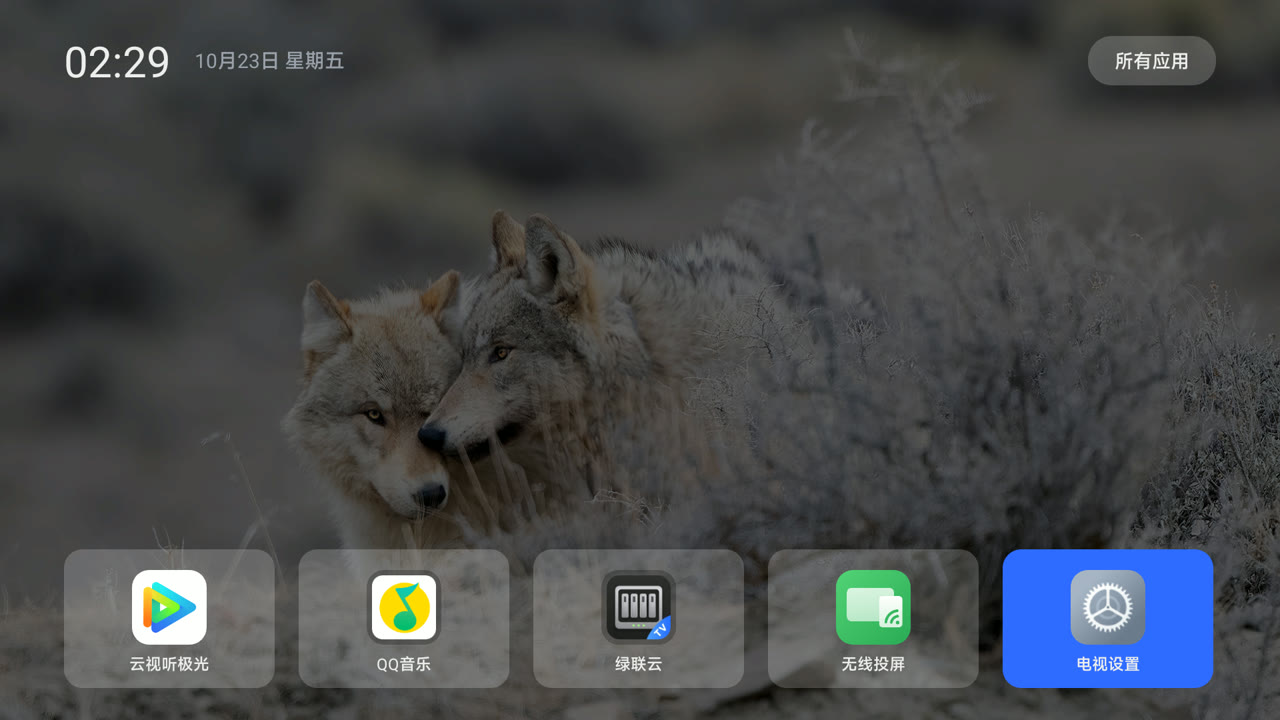
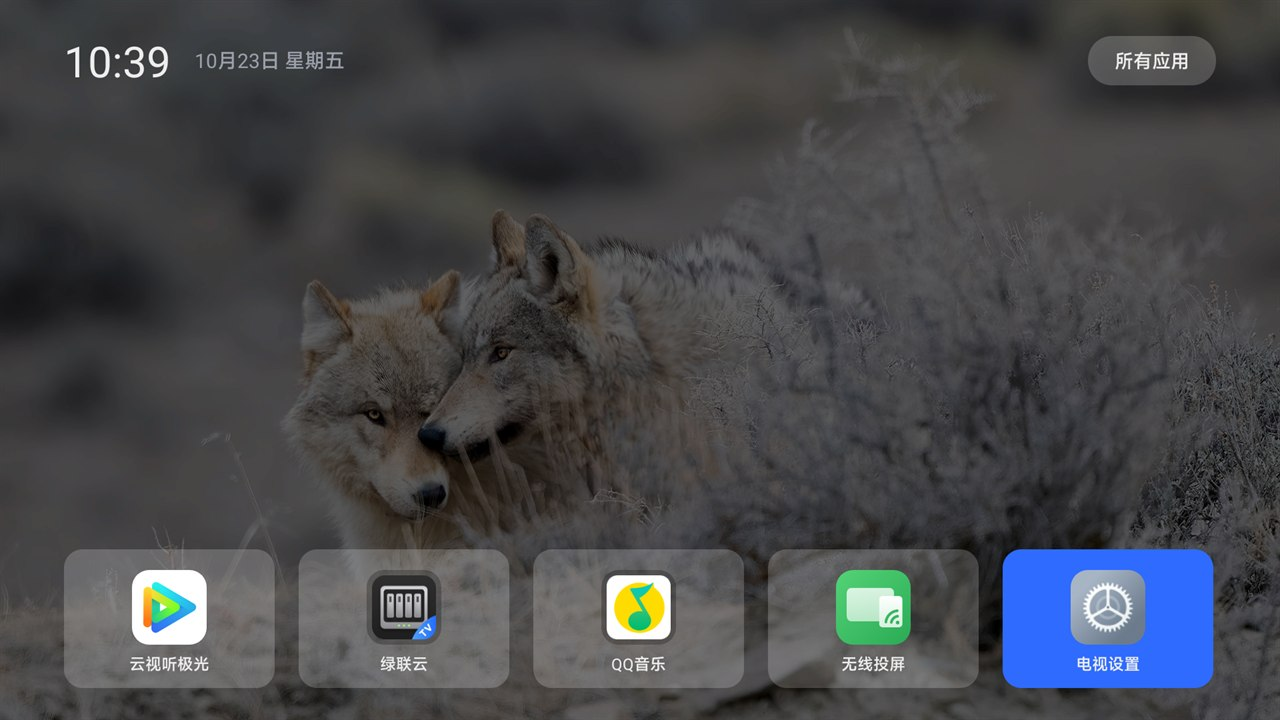
docs: 补充界面截图、英文版 README 与语言切换

diff --git a/README.en.md b/README.en.md
@@ -1,0 +1,278 @@
+# CleanMyTV
+
+**English** | [中文](README.md)
+
+A minimal Android TV launcher built for the **Xiaomi TV (MiTV-MFFU0 / `finch`, HyperOS TV 4)**, made to replace the ad-laden PatchWall.
+
+Zero third-party dependencies, built entirely from the command line, **40 KB APK**. The goal: **boot straight into a clean home screen with no promoted content.**
+
+> ⚠ **Read this first**: this approach requires enabling ADB, disabling the stock launcher (`com.mitv.tvhome`), and forcing a third-party app to become the Home app.
+> That goes past the manufacturer's intended configuration. **Make sure you can accept "the TV might not reach a home screen and has to be recovered over ADB" before you start.**
+> This project is for personal study and technical research; the author is not responsible for any device damage. The commands below were verified on MiTV-MFFU0 / HyperOS TV 4.0.11 and may not behave the same on your model.
+
+![CleanMyTV home screen](docs/home.jpg)
+
+---
+
+## Download
+
+**[⬇ CleanMyTV.apk](https://github.com/timothywei/CleanMyTV/releases/latest/download/CleanMyTV.apk)** · 40.7 KB · for MiTV-MFFU0 / HyperOS TV 4
+
+[All releases and changelogs](https://github.com/timothywei/CleanMyTV/releases) · installation steps are in [Install](#install) below
+
+> If you are new to ADB, read the whole [Install](#install) section before touching anything — getting the order wrong either fails to install, or installs but still lands in PatchWall.
+
+---
+
+## Why
+
+PatchWall renders three promoted cards at the top of its "My Apps" page (a TV-series ad, an app-download prompt, and a trending list). What the investigation showed:
+
+- Those cards are rendered by `com.mitv.tvhome` **itself**, not by an external ad app
+- The data comes from `api.ptmi.gitv.tv/tv/lean/myappsnew/fl/in` on the server side and is **not governed by any local setting**
+- Changing preferences, disabling ad packages, blocking DNS, switching to office mode — none of it worked
+
+Conclusion: without replacing the launcher, they stay. So this project exists.
+
+---
+
+## Features
+
+### Home screen
+
+| Feature | Description |
+|---|---|
+| Clock / date | Live clock plus a localized date in the top-left corner |
+| Bing daily wallpaper | Fetched once per day (silently retried on failure), with a 62% dark scrim |
+| Bottom-anchored grid | The icon grid hugs the bottom edge, leaving the wallpaper visible above |
+| Translucent cards | 20% white, letting the wallpaper texture through; solid blue when focused |
+| Uniform icon treatment | Full-bleed icons are rounded and cropped; others get a shared plate and are centered |
+| Smart initial focus | On cold start the focus lands on the **most frequently launched** app |
+| Focus memory | Returning from an app restores the previous selection |
+
+### Reordering (move mode)
+
+```
+Long-press OK / press MENU  →  enter move mode (white frame + ◀▶ arrows)
+D-pad                      →  swap with the adjacent card
+OK / BACK                  →  save and exit
+```
+
+The order is stored in SharedPreferences and survives reboots; newly installed apps are appended to the end.
+
+![Move mode](docs/reorder.jpg)
+
+### All apps
+
+- 6-column grid listing every launchable app
+- **System apps: hide/show** — system components are hidden by default
+- **Dangerous apps: hide/show** — engineering components hidden by default (factory menu, TIF Test, VPN dialog, System UI, …)
+- **Clear home icons** — wipe the home grid in one action
+- **Edit: off/on** — in edit mode, OK toggles the selected app in or out of the home grid
+- Live counter showing "N icons on the home screen"
+
+![All apps](docs/all-apps.jpg)
+
+### Volume HUD
+
+- Pressing volume shows `Volume 22 / 100 (22%)` plus a progress bar centered at the top, auto-hidden after 2.5 s
+- Implemented with a **foreground service + overlay window**, so it **works on top of any app**
+- The number follows the current output device (speaker / HDMI / ARC)
+
+![Volume HUD](docs/volume-hud.jpg)
+
+### Other
+
+- Left-push page transition animation (300 ms, with parallax)
+- Custom vector app icon (blue plate, TV, green check mark)
+- Wallpaper / network / decoding paths are wrapped in `catch (Throwable)`; any failure degrades silently and never takes the launcher down
+
+---
+
+## Technical notes
+
+### 1. Making a third-party launcher become Home: Xiaomi's whitelist backdoor
+
+Pointing `cmd package set-home-activity` at an ordinary package name **returns Success but has no effect** — Xiaomi's `MitvSettings.isThirdpartyHomeAllowed` rejects any Home app that is not on the whitelist.
+
+The workaround: set the APK's **applicationId to `com.ts.launcher`** (a package name present in Xiaomi's cloud-controlled `third_party_home` whitelist), while keeping the Java package as `com.cleanmytv.home`:
+
+```
+applicationId : com.ts.launcher              ← whitelisted identity, must not change
+Java package  : com.cleanmytv.home           ← code organization
+component     : com.ts.launcher/com.cleanmytv.home.HomeActivity
+```
+
+Combined with `pm disable-user com.mitv.tvhome`, HOME resolves to this launcher and **survives reboots** (verified on OS4.0.11; the same model on OS3.0.115 used to fail, so OS4 actually opened this up).
+
+### 2. Command-line-only build
+
+No Gradle, no Android Studio — only the tools shipped with the SDK:
+
+```
+aapt2 compile → aapt2 link → javac → d8 → aapt add → zipalign → apksigner
+```
+
+### 3. Zero dependencies
+
+Everything is based on the Android Framework API. No AndroidX, no Kotlin, no third-party libraries.
+
+---
+
+## Build
+
+Requirements: **JDK 17**, the **Android SDK** (any installed `build-tools` and `platforms` — the script picks the newest) and the `ANDROID_HOME` environment variable.
+
+The keystore password is passed via an environment variable rather than hard-coded:
+
+```powershell
+# 1. Set the keystore password (pick your own, and remember it)
+$env:CMTV_KS_PASS = "your-keystore-password"
+
+# 2. Build
+cd launcher
+
+# Plain-package build (for debugging; cannot become Home)
+.\build.ps1 -Manifest AndroidManifest.xml -OutName CleanMyTV-debug.apk
+
+# Whitelisted build (the one you actually use)
+.\build.ps1 -Manifest AndroidManifest-ts.xml -OutName CleanMyTV.apk
+```
+
+Output: `launcher/CleanMyTV.apk`
+
+If `launcher/debug.jks` does not exist yet, the script generates a fresh keystore using that password.
+
+> 🔑 **The signing key is your app's identity.** If `debug.jks` is lost or replaced, newly built APKs **cannot be installed over** an existing installation — you must uninstall first,
+> and uninstalling invalidates the Home setting, so you have to redo `set-home-activity`. Back up `debug.jks`, and never commit it.
+
+---
+
+## Install
+
+```bash
+# 1. Connect (enable ADB debugging on the TV first: Settings → Account & Security → ADB debugging)
+adb connect <TV-IP>:5555
+
+# 2. Install
+adb install -r CleanMyTV.apk
+
+# 3. Set as the default Home app (re-do this whenever the component name changes)
+adb shell cmd package set-home-activity --user 0 com.ts.launcher/com.cleanmytv.home.HomeActivity
+
+# 4. Disable the stock launcher
+adb shell pm disable-user com.mitv.tvhome
+
+# 5. Go home
+adb shell input keyevent KEYCODE_HOME
+```
+
+### Overlay permission (for the global volume HUD)
+
+```bash
+adb shell appops set com.ts.launcher SYSTEM_ALERT_WINDOW allow
+```
+
+Without it, the HUD falls back to "home screen only" and does not crash.
+
+### Transition animation (optional)
+
+Some TVs ship with activity transitions disabled:
+
+```bash
+adb shell settings put global transition_animation_scale 1.0
+```
+
+---
+
+## Usage
+
+| Action | How |
+|---|---|
+| Open an app | D-pad to select → OK |
+| Go to "All apps" | D-pad up to the top button → OK |
+| Reorder icons | Long-press OK (or MENU) → D-pad to move → OK/BACK to save |
+| Volume | Remote volume keys (the value is visible on any screen) |
+
+---
+
+## Repository layout
+
+```
+.
+├── README.md / README.en.md
+├── LICENSE                          MIT
+├── .gitignore / .gitattributes
+├── .github/                         issue templates, PR template, CI
+├── docs/                            screenshots
+└── launcher/
+    ├── build.ps1                    build script (auto-detects build-tools)
+    ├── AndroidManifest.xml          plain-package manifest
+    ├── AndroidManifest-ts.xml       whitelisted manifest (com.ts.launcher)
+    ├── res/
+    │   ├── anim/                    4 transition animations
+    │   └── drawable/ic_launcher.xml vector app icon
+    ├── src/com/cleanmytv/home/
+    │   ├── HomeActivity.java        home screen (clock/wallpaper/grid/move mode)
+    │   ├── AllAppsActivity.java     all apps (filter/edit/clear)
+    │   ├── IconFactory.java         uniform icon treatment (cached)
+    │   ├── Wallpaper.java           Bing wallpaper loading (Bitmap cache)
+    │   ├── BingWallpaper.java       daily wallpaper download (once per day)
+    │   ├── VolumeHud.java           volume overlay (overlay / activity dual mode)
+    │   ├── VolumeService.java       foreground service (keeps the volume listener alive)
+    │   ├── BootReceiver.java        start on boot
+    │   └── DbgLog.java              debug logging
+    │
+    ├── debug.jks                    signing key ★ generated locally, never committed
+    ├── build/                       intermediate build output, never committed
+    └── CleanMyTV.apk                artifact, never committed (download from Releases)
+```
+
+About 2,100 lines of Java, 40.7 KB APK.
+
+---
+
+## Known limitations
+
+| Item | Notes |
+|---|---|
+| **ADB turns itself off on every reboot** | A Xiaomi TV behavior; you have to re-enable it on the TV before reconnecting |
+| **CEC volume is not wired up** | With an external JBL Cinema 715 over ARC, the TV volume affects the soundbar, but the soundbar's own volume cannot be read or synchronized; third-party apps have no `HDMI_CEC` permission |
+| **Overlay permission** | Must be granted manually, and again after a factory reset |
+| **Signing key** | `debug.jks` must be kept, otherwise new APKs cannot be installed over the old one (uninstall + reinstall, which breaks the Home setting) |
+| **A self-built APK ≠ the official APK** | An APK you build after forking is signed with your own key and **cannot be installed over** the official Releases APK; switching requires uninstalling first (which invalidates the Home setting, so the install steps must be repeated) |
+| **The package name cannot change** | `com.ts.launcher` is what makes Home work; changing it drops you back to PatchWall |
+
+---
+
+## Rolling back to the stock launcher
+
+```bash
+adb shell pm enable com.mitv.tvhome
+adb shell cmd package set-home-activity --user 0 com.mitv.tvhome/.MainActivityUserMode
+adb shell input keyevent KEYCODE_HOME
+```
+
+---
+
+## Disclaimer
+
+This is a personal tool, provided "as is", without warranty of any kind, express or implied.
+
+- Changing the default Home app and disabling system apps goes beyond supported configuration and **may leave the TV unable to reach a home screen**. Make sure you can recover over ADB (`pm enable com.mitv.tvhome` plus re-setting the Home app) before you begin.
+- Verified only on **MiTV-MFFU0 / HyperOS TV 4.0.11**; behavior on other models and OS versions is untested.
+- The author accepts no liability for device failure, data loss, or voided warranty resulting from use of this project.
+
+---
+
+## Credits
+
+The approach and device notes draw on the public documentation of [CleanYourTV](https://github.com/Gathin23/cleanyourtv) (the Xiaomi whitelist mechanism, the `com.ts.launcher` backdoor, input switching, and more).
+
+---
+
+## License
+
+[MIT](LICENSE) © 2026 timothywei
+
+You are free to use, modify, and distribute this project, including commercially, as long as the copyright notice and license text are retained.

diff --git a/README.md b/README.md
@@ -1,5 +1,7 @@
 # CleanMyTV
 
+**中文** | [English](README.en.md)
+
 一个为**小米电视（MiTV-MFFU0 / finch，HyperOS TV 4）**自研的极简桌面，用来替换广告缠身的 PatchWall。
 
 纯命令行构建、零第三方依赖、APK 仅 40 KB。核心目标是：**开机即桌面，首页干净，没有推荐卡片。**
@@ -58,6 +60,8 @@
 
 顺序存于 SharedPreferences，重启保留；新装应用追加到末尾。
 
+![排序模式](docs/reorder.jpg)
+
 ### 所有应用
 
 - 6 列网格，显示全部可启动应用
@@ -67,11 +71,15 @@
 - **编辑：关/开** —— 编辑模式下确定键 = 加入/移出首页
 - 实时显示「首页已显示 N 个图标」
 
+![所有应用](docs/all-apps.jpg)
+
 ### 音量 HUD
 
 - 调音量时顶部居中弹出 `音量 22 / 100 (22%)` + 进度条，2.5 秒自动隐藏
 - 通过**前台服务 + 悬浮窗**实现，**在任意应用界面上都能显示**
 - 数字跟随当前输出设备（扬声器 / HDMI / ARC）
+
+![音量 HUD](docs/volume-hud.jpg)
 
 ### 其他
 
@@ -192,11 +200,15 @@ adb shell settings put global transition_animation_scale 1.0
 
 ```
 .
-├── README.md
+├── README.md / README.en.md        中文 / English
 ├── LICENSE                          MIT
 ├── .gitignore / .gitattributes
+├── .github/                         Issue 模板、PR 模板、CI
 ├── docs/
-│   └── home.jpg                     首页效果图
+│   ├── home.jpg                     首页
+│   ├── all-apps.jpg                 所有应用
+│   ├── reorder.jpg                  排序模式
+│   └── volume-hud.jpg               音量 HUD
 └── launcher/
     ├── build.ps1                    构建脚本（自动探测 build-tools）
     ├── AndroidManifest.xml          普通包名版
